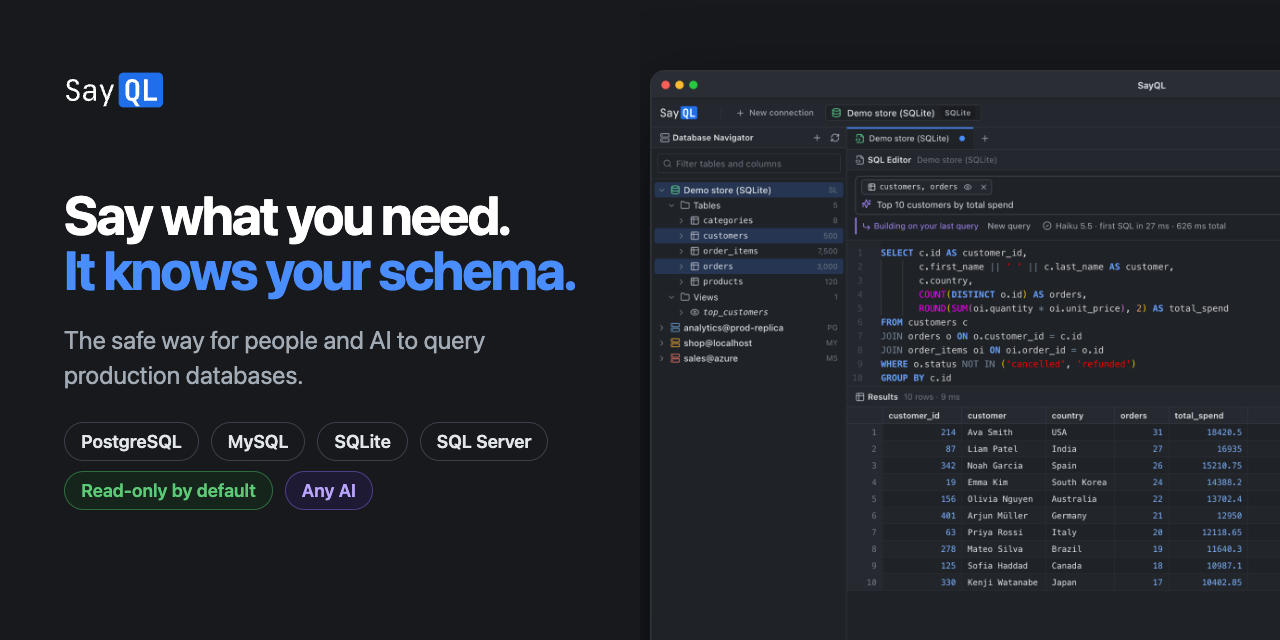
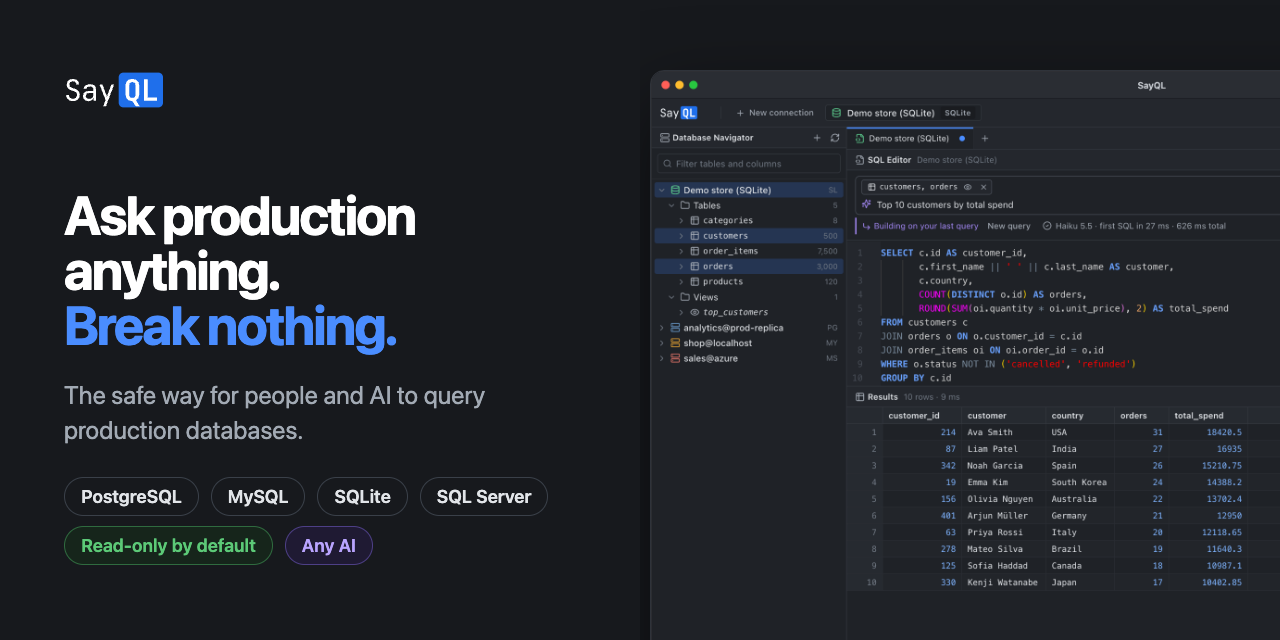
Headline: Ask production anything. Break nothing.
Landing hero, share image and its alt text, docs template and README.

Changed region(s): [[0.0312, 0.3125, 0.4688, 0.8125], [0.0625, 0.8438, 0.2812, 0.875], [0.3438, 0.75, 0.4062, 0.8125]]

diff --git a/site/index.html b/site/index.html
@@ -17,7 +17,7 @@
 <meta property="og:image" content="https://sayql.dev/og.png">
 <meta property="og:image:width" content="1280">
 <meta property="og:image:height" content="640">
-<meta property="og:image:alt" content="SayQL: Say what you need. It knows your schema.">
+<meta property="og:image:alt" content="SayQL: Ask production anything. Break nothing.">
 <meta name="twitter:card" content="summary_large_image">
 <meta name="twitter:title" content="SayQL — Free AI SQL client: plain English to safe SQL">
 <meta name="twitter:description" content="Ask production databases in plain English. Free, open-source text-to-SQL that runs read-only and works with any AI. SayQL for teams adds rules the AI can&#39;t cross and a record of every query, on your servers.">
@@ -767,7 +767,7 @@ section.block { padding: 80px 0 0; }
 <section class="hero">
   <div class="wrap">
     <a class="eyebrow" href="#teams"><span class="tag">New</span><span>SayQL for teams<span class="long">: one command, free for 30 days</span></span></a>
-    <h1>Say what you need. <span>It knows your schema.</span></h1>
+    <h1>Ask production anything. <span>Break nothing.</span></h1>
     <p class="lede">The safe way for people and AI to query production databases. Any AI, any database, read-only by default.</p>
     <div class="actions">
       <a class="btn btn-primary btn-lg" href="/download/" data-dl="auto"><svg class="icon"><use href="#i-download"/></svg><span data-dl-label>Download for free</span></a>

diff --git a/site/docs/sql-server-plain-english/index.html b/site/docs/sql-server-plain-english/index.html
@@ -14,7 +14,7 @@
 <meta property="og:image" content="https://sayql.dev/og.png">
 <meta property="og:image:width" content="1280">
 <meta property="og:image:height" content="640">
-<meta property="og:image:alt" content="SayQL: Say what you need. It knows your schema.">
+<meta property="og:image:alt" content="SayQL: Ask production anything. Break nothing.">
 <meta name="twitter:card" content="summary_large_image">
 <meta name="twitter:title" content="Query SQL Server and Azure SQL in plain English · SayQL Docs">
 <meta name="twitter:description" content="Query SQL Server and Azure SQL in plain English. SayQL writes T-SQL for your schema as you type and checks every statement before it runs.">

diff --git a/site/docs/local-ai-sql-ollama/index.html b/site/docs/local-ai-sql-ollama/index.html
@@ -14,7 +14,7 @@
 <meta property="og:image" content="https://sayql.dev/og.png">
 <meta property="og:image:width" content="1280">
 <meta property="og:image:height" content="640">
-<meta property="og:image:alt" content="SayQL: Say what you need. It knows your schema.">
+<meta property="og:image:alt" content="SayQL: Ask production anything. Break nothing.">
 <meta name="twitter:card" content="summary_large_image">
 <meta name="twitter:title" content="Write SQL with a local AI (Ollama or LM Studio) · SayQL Docs">
 <meta name="twitter:description" content="Write SQL with a local AI using Ollama or LM Studio. Your questions and schema stay on your computer, and no API key is needed.">

diff --git a/site/docs/safe-production-queries/index.html b/site/docs/safe-production-queries/index.html
@@ -14,7 +14,7 @@
 <meta property="og:image" content="https://sayql.dev/og.png">
 <meta property="og:image:width" content="1280">
 <meta property="og:image:height" content="640">
-<meta property="og:image:alt" content="SayQL: Say what you need. It knows your schema.">
+<meta property="og:image:alt" content="SayQL: Ask production anything. Break nothing.">
 <meta name="twitter:card" content="summary_large_image">
 <meta name="twitter:title" content="Let your team query production safely · SayQL Docs">
 <meta name="twitter:description" content="Let your team query production safely in plain English. Support, ops, PMs and analysts get answers while SayQL runs read-only by default.">

diff --git a/site/docs/mysql-text-to-sql/index.html b/site/docs/mysql-text-to-sql/index.html
@@ -14,7 +14,7 @@
 <meta property="og:image" content="https://sayql.dev/og.png">
 <meta property="og:image:width" content="1280">
 <meta property="og:image:height" content="640">
-<meta property="og:image:alt" content="SayQL: Say what you need. It knows your schema.">
+<meta property="og:image:alt" content="SayQL: Ask production anything. Break nothing.">
 <meta name="twitter:card" content="summary_large_image">
 <meta name="twitter:title" content="Text-to-SQL for MySQL and MariaDB · SayQL Docs">
 <meta name="twitter:description" content="Free text-to-SQL for MySQL and MariaDB. Type a question in plain English, get SQL that fits your schema, and run it read-only by default.">

diff --git a/site/docs/postgresql-plain-english/index.html b/site/docs/postgresql-plain-english/index.html
@@ -14,7 +14,7 @@
 <meta property="og:image" content="https://sayql.dev/og.png">
 <meta property="og:image:width" content="1280">
 <meta property="og:image:height" content="640">
-<meta property="og:image:alt" content="SayQL: Say what you need. It knows your schema.">
+<meta property="og:image:alt" content="SayQL: Ask production anything. Break nothing.">
 <meta name="twitter:card" content="summary_large_image">
 <meta name="twitter:title" content="Ask PostgreSQL questions in plain English · SayQL Docs">
 <meta name="twitter:description" content="Ask PostgreSQL questions in plain English and get SQL as you type. SayQL knows your schema and runs queries read-only by default.">

diff --git a/site/docs/teams/index.html b/site/docs/teams/index.html
@@ -14,7 +14,7 @@
 <meta property="og:image" content="https://sayql.dev/og.png">
 <meta property="og:image:width" content="1280">
 <meta property="og:image:height" content="640">
-<meta property="og:image:alt" content="SayQL: Say what you need. It knows your schema.">
+<meta property="og:image:alt" content="SayQL: Ask production anything. Break nothing.">
 <meta name="twitter:card" content="summary_large_image">
 <meta name="twitter:title" content="SayQL for teams · SayQL Docs">
 <meta name="twitter:description" content="Let your people and your AI query production with rules the AI can&#x27;t cross and a record of every query, on a SayQL server your company runs.">

diff --git a/site/docs/agent-mode/index.html b/site/docs/agent-mode/index.html
@@ -14,7 +14,7 @@
 <meta property="og:image" content="https://sayql.dev/og.png">
 <meta property="og:image:width" content="1280">
 <meta property="og:image:height" content="640">
-<meta property="og:image:alt" content="SayQL: Say what you need. It knows your schema.">
+<meta property="og:image:alt" content="SayQL: Ask production anything. Break nothing.">
 <meta name="twitter:card" content="summary_large_image">
 <meta name="twitter:title" content="Agent mode · SayQL Docs">
 <meta name="twitter:description" content="Let SayQL investigate a question in several read-only steps and answer with the queries behind it, and control exactly what it may send to the AI.">

diff --git a/site/docs/privacy/index.html b/site/docs/privacy/index.html
@@ -14,7 +14,7 @@
 <meta property="og:image" content="https://sayql.dev/og.png">
 <meta property="og:image:width" content="1280">
 <meta property="og:image:height" content="640">
-<meta property="og:image:alt" content="SayQL: Say what you need. It knows your schema.">
+<meta property="og:image:alt" content="SayQL: Ask production anything. Break nothing.">
 <meta name="twitter:card" content="summary_large_image">
 <meta name="twitter:title" content="Privacy and data · SayQL Docs">
 <meta name="twitter:description" content="What SayQL sends to your database, your AI provider and MCP apps, and when table rows can reach the AI (agent mode, only if you turn it on).">

diff --git a/site/docs/shortcuts/index.html b/site/docs/shortcuts/index.html
@@ -14,7 +14,7 @@
 <meta property="og:image" content="https://sayql.dev/og.png">
 <meta property="og:image:width" content="1280">
 <meta property="og:image:height" content="640">
-<meta property="og:image:alt" content="SayQL: Say what you need. It knows your schema.">
+<meta property="og:image:alt" content="SayQL: Ask production anything. Break nothing.">
 <meta name="twitter:card" content="summary_large_image">
 <meta name="twitter:title" content="Keyboard shortcuts · SayQL Docs">
 <meta name="twitter:description" content="Every keyboard shortcut in SayQL: run queries, open tabs, use / commands and pick tables for the AI.">

diff --git a/site/docs/asking/index.html b/site/docs/asking/index.html
@@ -14,7 +14,7 @@
 <meta property="og:image" content="https://sayql.dev/og.png">
 <meta property="og:image:width" content="1280">
 <meta property="og:image:height" content="640">
-<meta property="og:image:alt" content="SayQL: Say what you need. It knows your schema.">
+<meta property="og:image:alt" content="SayQL: Ask production anything. Break nothing.">
 <meta name="twitter:card" content="summary_large_image">
 <meta name="twitter:title" content="Ask in plain English · SayQL Docs">
 <meta name="twitter:description" content="Turn questions into SQL as you type, refine them with follow-ups, and fix or improve queries.">

diff --git a/site/docs/index.html b/site/docs/index.html
@@ -14,7 +14,7 @@
 <meta property="og:image" content="https://sayql.dev/og.png">
 <meta property="og:image:width" content="1280">
 <meta property="og:image:height" content="640">
-<meta property="og:image:alt" content="SayQL: Say what you need. It knows your schema.">
+<meta property="og:image:alt" content="SayQL: Ask production anything. Break nothing.">
 <meta name="twitter:card" content="summary_large_image">
 <meta name="twitter:title" content="Introduction · SayQL Docs">
 <meta name="twitter:description" content="The safe way for people and AI to query production databases. Install, connect, pick an AI and ask.">
